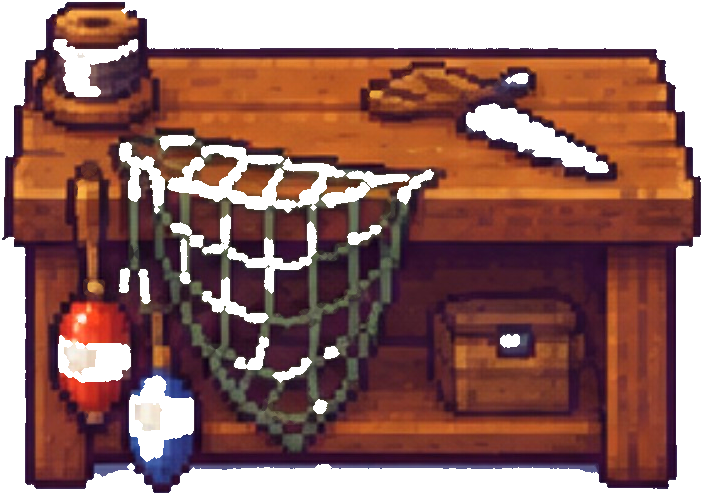
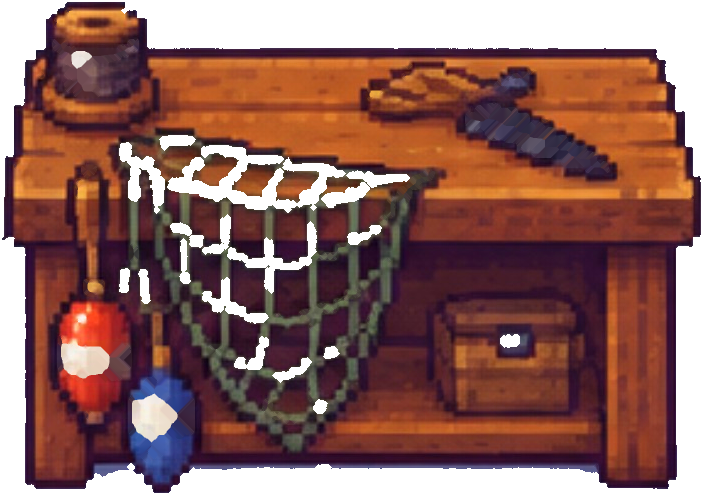
The shell table's knife and floats put back, and a painted sky
THE SHELL TABLE. The knife blade, the rope spool and both floats were
TRANSPARENT -- a colour had been keyed out of them and their middles were
see-through. I could not restore this one from an old file, because there
isn't one: every version of workbench.png in the repo already has the
holes, so the damage predates the file being committed under this name.

So it is repaired by hand instead, exactly the way I said I would do it:
I mapped the twenty-five interior holes, looked at them, and found that
four of them are punched objects (the blade, the spool, the red float,
the blue float) while the other twenty-one are the fishing net's real
gaps. Only the four are filled, by dilating each hole's own surrounding
colour inwards. 11382 pixels. The net keeps every gap it should have.

A PAINTED SKY. The ramp only ever varied downwards, and a real sky does
not: it is warmer and paler where the light comes from and colder and
deeper away from it, all the way up, and that one thing is most of the
difference between a painting and a vertical gradient. The whole sky
leans towards the sun's side now, with a soft column of light standing
above it, and the quantisation is finer (about twenty-three levels a
channel instead of fifteen) so the falloff is smooth under the dither.

And it is LAYERED, because weather is: fair-weather cumulus low on the
horizon, and a new layer of thin fibrous CIRRUS a long way above it,
moving at a fifth of the speed because it is a long way further off.
[…]

diff --git a/js/sky.js b/js/sky.js
@@ -223,6 +223,51 @@ const SKY = {
     return this._cloudCv;
   },
 
+  // Thin fibrous cloud, baked once per palette. Long flat runs with a soft top
+  // edge and a harder bottom, exactly like the cumulus lumps but stretched.
+  cirrusCanvas(col) {
+    const q8 = (v) => (v + 4) >> 3;
+    const key = (q8(col[0]) << 16) | (q8(col[1]) << 8) | q8(col[2]);
+    if (this._cirKey === key && this._cirCv) return this._cirCv;
+    if (!this.clouds) this.init();
+    const HT = 30;
+    if (!this._cirCv) {
+      this._cirCv = document.createElement('canvas');
+      this._cirCv.width = this.BANK_W * DPX;
+      this._cirCv.height = HT * DPX;
+    }
+    const c = this._cirCv.getContext('2d');
+    c.setTransform(DPX, 0, 0, DPX, 0, 0);
+    c.clearRect(0, 0, this.BANK_W, HT);
+    const rng = mulberry32(0x0C1AA5);
+    c.fillStyle = cssRGB(col);
+    const S = APIX, snap2 = (v) => Math.round(v / S) * S;
+    let x = 0;
+    while (x < this.BANK_W) {
+      const len = 30 + rng() * 90;
+      const y0 = snap2(4 + rng() * (HT - 12));
+      const rows = 2 + ((rng() * 3) | 0);
+      const slope = (rng() - 0.5) * 0.06;
+      for (let r = 0; r < rows; r++) {
+        // each row is a run, shorter and offset as it goes down: a feathered wisp
+        const shrink = r * (0.12 + rng() * 0.10);
+        const w = Math.max(S, snap2(len * (1 - shrink)));
+        const xo = snap2(x + len * shrink * 0.5 + r * 2);
+        const yy = snap2(y0 + r * S + (x - 0) * slope);
+        // broken into dashes, so it is fibrous rather than a bar
+        let dx = 0;
+        while (dx < w) {
+          const seg = snap2(3 + rng() * 12);
+          if (rng() > 0.24) c.fillRect(xo + dx, yy, Math.min(seg, w - dx), S);
+          dx += seg + snap2(rng() * 5);
+        }
+      }
+      x += len + 20 + rng() * 80;
+    }
+    this._cirKey = key;
+    return this._cirCv;
+  },
+
   // a 4-point pixel star, like the reference sparkles
   spark(ctx, x, y, s, col) {
     ctx.fillStyle = col;
@@ -384,7 +429,7 @@ const SKY = {
     3, 35, 11, 43, 1, 33, 9, 41, 51, 19, 59, 27, 49, 17, 57, 25,
     15, 47, 7, 39, 13, 45, 5, 37, 63, 31, 55, 23, 61, 29, 53, 21,
   ],
-  SKY_STEP: 17,        // colour quantisation: about fifteen levels a channel
+  SKY_STEP: 11,        // colour quantisation: about twenty-three levels a channel
 
   skyCanvas(clock) {
     const key = Math.round(clock * 80);
@@ -423,10 +468,29 @@ const SKY = {
       const yb = (y & 7) * 8;
       // the bloom falls off with height above the horizon
       const vg = Math.max(0, 1 - Math.abs(f - 0.97) * 2.1);
+      // ...and the whole sky leans towards the sun's side. A real sky is not the
+      // same colour left and right: it is warmer and paler where the light comes
+      // from and colder and deeper away from it, all the way up. This is the one
+      // thing that separates a painted sky from a vertical gradient.
+      const lean = 0.16 + 0.20 * (1 - f);
+      // a soft column of light standing above the sun, strongest low down
+      const col = Math.max(0, 1 - Math.abs(f - 0.6) * 1.5) * 0.16 * (isDay ? 1 : 0.35);
       for (let x = 0; x < pw; x++) {
         rr[0] = a[0] + (b[0] - a[0]) * k;
         rr[1] = a[1] + (b[1] - a[1]) * k;
         rr[2] = a[2] + (b[2] - a[2]) * k;
+        // across: towards the sun's colour on its side, away from it on the other
+        const across = 1 - Math.min(1, Math.abs(x - sunX) / (pw * 0.85));
+        const lw = lean * (across - 0.35);
+        rr[0] += (sun[0] - rr[0]) * lw * 0.9;
+        rr[1] += (sun[1] - rr[1]) * lw * 0.7;
+        rr[2] += (sun[2] - rr[2]) * lw * 0.4;
+        if (col > 0) {
+          const cw = col * Math.max(0, 1 - Math.abs(x - sunX) / (pw * 0.13));
+          rr[0] += (sun[0] - rr[0]) * cw;
+          rr[1] += (sun[1] - rr[1]) * cw;
+          rr[2] += (sun[2] - rr[2]) * cw;
+        }
         if (vg > 0) {
           const hx = Math.abs(x - sunX) / (pw * 0.42);
           const g = Math.max(0, 1 - hx) * vg * heat;
@@ -528,6 +592,24 @@ const SKY = {
         const x = snap(-off + t * this.BANK_W - 90);
         if (x > W || x + this.BANK_W < 0) continue;
         ctx.drawImage(bank, x, snap(baseY), this.BANK_W, bank.height / DPX);
+      }
+    }
+    // ---- CIRRUS, high up ------------------------------------------------------
+    //
+    // A sky with one bank of cumulus on the horizon and nothing above it is a
+    // backdrop. Real weather is layered: fair-weather cumulus low down and thin
+    // fibrous cirrus a long way above it, moving at a different speed because it
+    // is a long way further off. These are long, thin, almost flat runs of the
+    // same lump technique -- five or six texels tall and forty across -- drawn
+    // pale over the top third of the sky.
+    const cir = this.cirrusCanvas(rgbLerp([255, 255, 255], cloudC, 0.18));
+    if (cir) {
+      const off2 = (((time * 0.55 + cam * 0.05) % this.BANK_W) + this.BANK_W) % this.BANK_W;
+      ctx.globalAlpha = 0.42;
+      for (let t2 = -1; t2 <= 1; t2++) {
+        const x = snap(-off2 + t2 * this.BANK_W - 40);
+        if (x > W || x + this.BANK_W < 0) continue;
+        ctx.drawImage(cir, x, snap(HZ * 0.10), this.BANK_W, cir.height / DPX);
       }
     }
     ctx.globalAlpha = 1;
